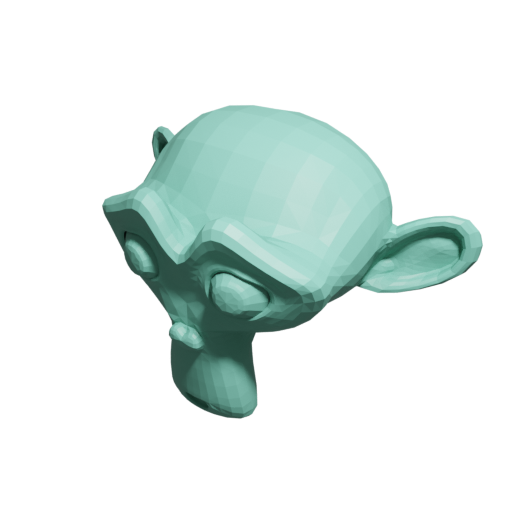
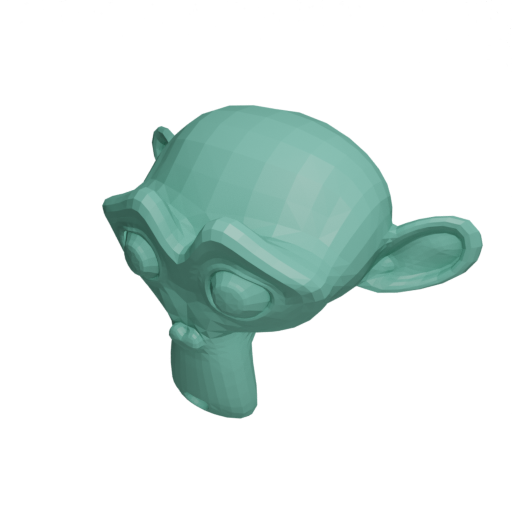
Update shadow handling and backdrop material settings
- Added `--light dark` option for no shadow in README.
- Removed `Strength.OFF` from `Strength` enum.
- Simplified shadow strength logic in `run` function.
- Updated backdrop material to set alpha based on shadow strength.
- Modified `make_lights` to handle shadow as a boolean.

Changed region(s): [[0.1875, 0.1875, 0.9375, 0.8438]]

diff --git a/main.py b/main.py
@@ -33,7 +33,6 @@ class Color(Enum):
 
 
 class Strength(Enum):
-    OFF = 0.0
     WEAK = 0.6
     MEDIUM = 0.7
     STRONG = 1.0
@@ -216,11 +215,9 @@ def run(obj_path: str | Tuple[str, str],
             gravity = False
         offset = np.array([0, 0, -0.6])
 
-    no_shadow = isinstance(shadow, bool) and not shadow
-    if gravity or (backdrop and not (transparent and no_shadow)):
-        shadow_strength = Strength.OFF if no_shadow else Strength.MEDIUM
+    if gravity or backdrop:
         setup_backdrop(obj=obj,
-                       shadow_strength=shadow_strength,
+                       shadow_strength=Strength.MEDIUM,
                        transparent=transparent,
                        color=None if transparent else bg_color,
                        gravity=gravity,
@@ -231,8 +228,9 @@ def run(obj_path: str | Tuple[str, str],
 
     light = light or (Light.BRIGHT if is_mesh else Light.VERY_BRIGHT)
     light = light if isinstance(light, float) else Light[light.upper()].value if isinstance(light, str) else light.value
+    shadow = Shadow(shadow) if shadow else (Shadow.MEDIUM if is_mesh else Shadow.SOFT) if shadow is None else shadow
     make_lights(obj=obj,
-                shadow=(Shadow.MEDIUM if is_mesh else Shadow.SOFT) if shadow is None or no_shadow else Shadow(shadow),
+                shadow=shadow,
                 light_intensity=light)
     make_camera(obj=obj,
                 location=cam_location,
@@ -707,11 +705,11 @@ def setup_backdrop(obj: bproc.types.MeshObject,
     material = plane.new_material('backdrop_material')
     material.set_principled_shader_value('Base Color', [*get_color(color), 1])
     material.set_principled_shader_value('Roughness', 1.0)
+    material.set_principled_shader_value('Alpha', shadow_strength.value)
     plane.set_shading_mode('SMOOTH')
     plane.set_location(np.array([0, 0, obj.get_bound_box()[:, 2].min()]) + offset)
-    if transparent and Strength(shadow_strength) is not Strength.OFF:
+    if transparent:
         plane.blender_obj.is_shadow_catcher = True
-        material.set_principled_shader_value('Alpha', shadow_strength.value)
         if not isinstance(transparent, bool):
             tex_coord_node = material.new_node('ShaderNodeTexCoord')
             tex_coord_node.object = obj.blender_obj
@@ -1027,7 +1025,7 @@ def add_ambient_occlusion(obj: Optional[bproc.types.MeshObject] = None,
 
 
 def make_lights(obj: bproc.types.MeshObject,
-                shadow: Shadow | str = Shadow.MEDIUM,
+                shadow: Shadow | str | bool = Shadow.MEDIUM,
                 light_intensity: float = 0.2,
                 fill_light: bool = False,
                 rim_light: bool = False):
@@ -1049,14 +1047,17 @@ def make_lights(obj: bproc.types.MeshObject,
     key_light.set_location([1, 0.5, 2])
     key_light.set_rotation_mat(bproc.camera.rotation_from_forward_vec(obj.get_location() - key_light.get_location()))
     scale = 1
-    if Shadow(shadow) is Shadow.VERY_HARD:
-        scale = 0.01
-    elif Shadow(shadow) is Shadow.HARD:
-        scale = 0.1
-    elif Shadow(shadow) is Shadow.SOFT:
-        scale = 3
-    elif Shadow(shadow) is Shadow.VERY_SOFT:
-        scale = 5
+    if shadow:
+        if Shadow(shadow) is Shadow.VERY_HARD:
+            scale = 0.01
+        elif Shadow(shadow) is Shadow.HARD:
+            scale = 0.1
+        elif Shadow(shadow) is Shadow.SOFT:
+            scale = 3
+        elif Shadow(shadow) is Shadow.VERY_SOFT:
+            scale = 5
+    else:
+        key_light.blender_obj.data.use_shadow = False
     key_light.set_scale([scale] * 3)
     key_light.set_energy(int(150 * light_intensity))
 

diff --git a/README.md b/README.md
@@ -91,7 +91,7 @@ Shadows are rendered by default. To disable them, use the `--noshadow` option. T
 | Soft shadow                       | Hard shadow                      | No shadow                            |
 |-----------------------------------|----------------------------------|--------------------------------------|
 | ![mesh](examples/shadow_soft.png) | ![pcd](examples/shadow_hard.png) | ![mesh_depth](examples/noshadow.png) |
-| `--shadow soft`                   | `--shadow hard`                  | `--noshadow`                         |
+| `--shadow soft`                   | `--shadow hard`                  | `--noshadow` `--light dark`          |
 
 ### Shading
 
